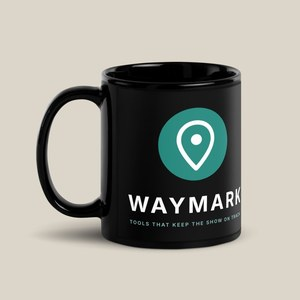
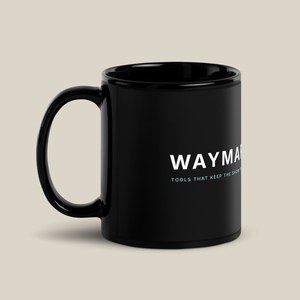
Update Waymark merch photos on /support/
New 300x300 photos (mug layout, smaller tee print); mug alt text now
says the name only.

Claude-Session: https://claude.ai/code/session_01YL6AbiX7gTJZcf7pkGvBVW

Changed region(s): [[0.51, 0.36, 0.81, 0.63], [0.42, 0.63, 0.81, 0.78]]

diff --git a/support/index.html b/support/index.html
@@ -188,7 +188,7 @@
         </li>
         <li class="product">
           <a href="https://glarolykoi.net/product/koypa-waymark/" data-href-en="https://glarolykoi.net/en/product/koypa-waymark/" data-href-el="https://glarolykoi.net/product/koypa-waymark/" rel="noopener">
-            <img src="/support/merch/waymark-mug.jpg" width="300" height="300" loading="lazy" decoding="async" alt="Black mug with the Waymark mark and name" data-alt-en="Black mug with the Waymark mark and name" data-alt-el="Μαύρη κούπα με το σήμα και το όνομα του Waymark">
+            <img src="/support/merch/waymark-mug.jpg" width="300" height="300" loading="lazy" decoding="async" alt="Black mug with the Waymark name" data-alt-en="Black mug with the Waymark name" data-alt-el="Μαύρη κούπα με το όνομα του Waymark">
             <span class="meta">
               <span class="name"><span lang="en">Waymark mug</span><span lang="el">Κούπα Waymark</span></span>
               <span class="price"><span lang="en">€18</span><span lang="el">18 €</span></span>
